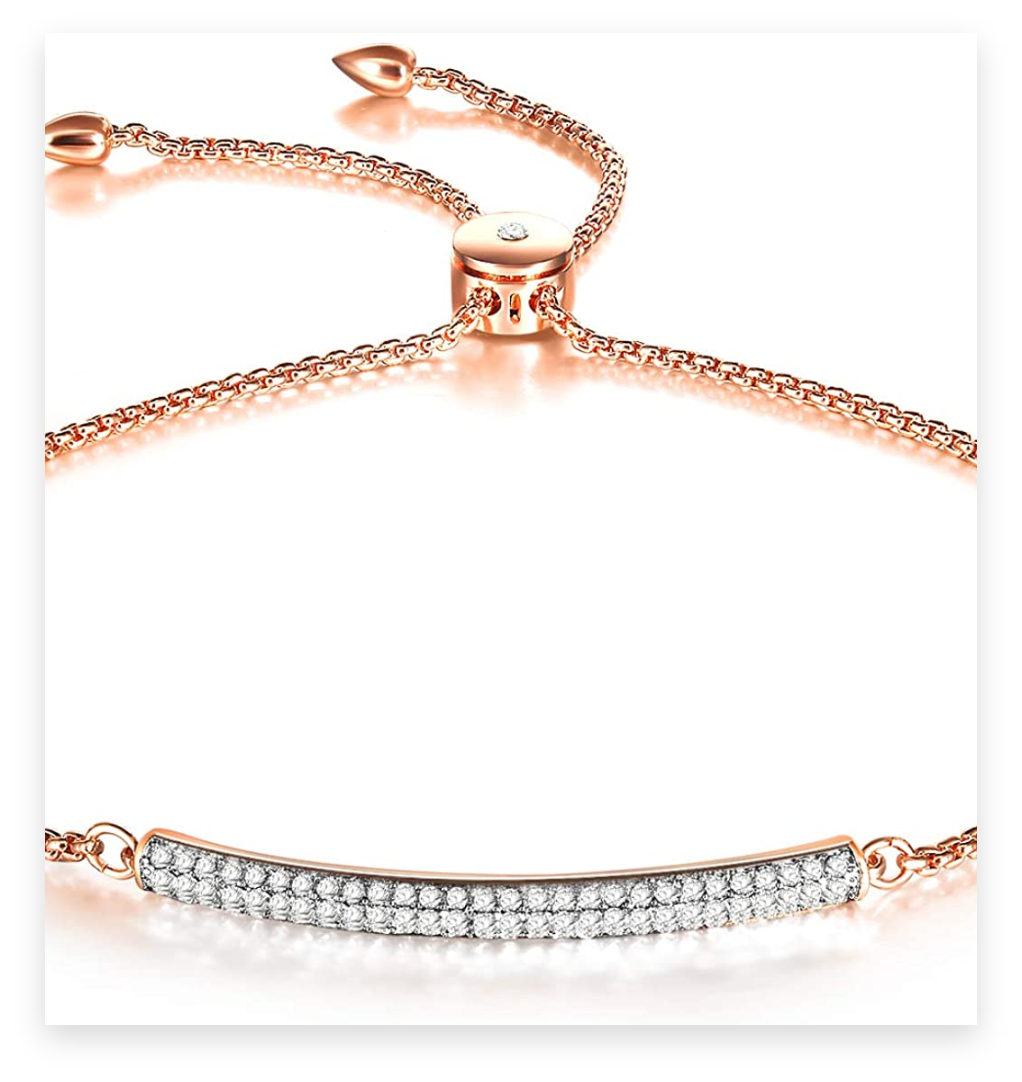
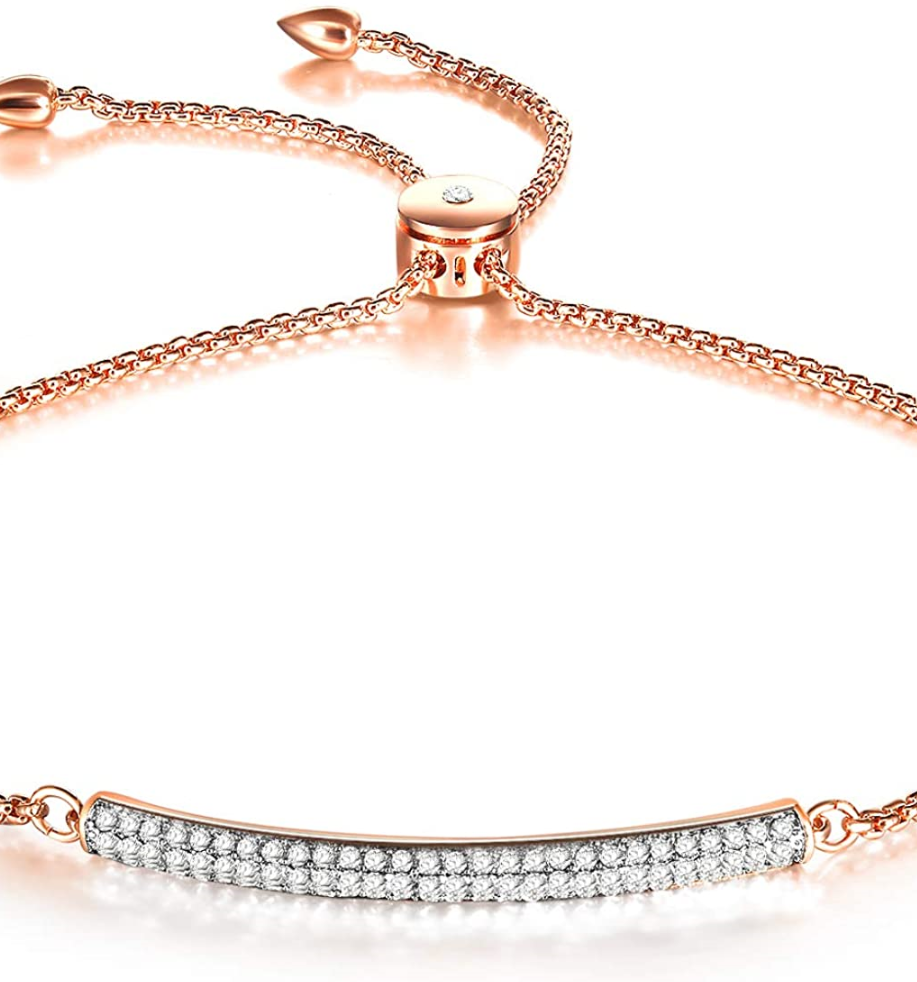
removed stupid shadows from dummy images

Changed region(s): [[0.0, 0.0, 1.0, 0.4582], [0.0, 0.7332, 1.0, 0.9776], [0.855, 0.947, 0.9466, 0.9776]]

diff --git a/src/pages/NecklacePendantPage/Product/Product.css b/src/pages/NecklacePendantPage/Product/Product.css
@@ -1,9 +1,9 @@
-.MuiPaper-root.product.smallerFont.MuiPaper-elevation1.MuiPaper-rounded {
+.MuiPaper-root.product.MuiPaper-elevation1.MuiPaper-rounded {
 	padding: 10px;
 	transition: 0.3s ease all;
 }
 
-.MuiPaper-root.product.smallerFont.MuiPaper-elevation1.MuiPaper-rounded:hover {
+.MuiPaper-root.product.MuiPaper-elevation1.MuiPaper-rounded:hover {
 	transform: scale(1.05);
 }
 
